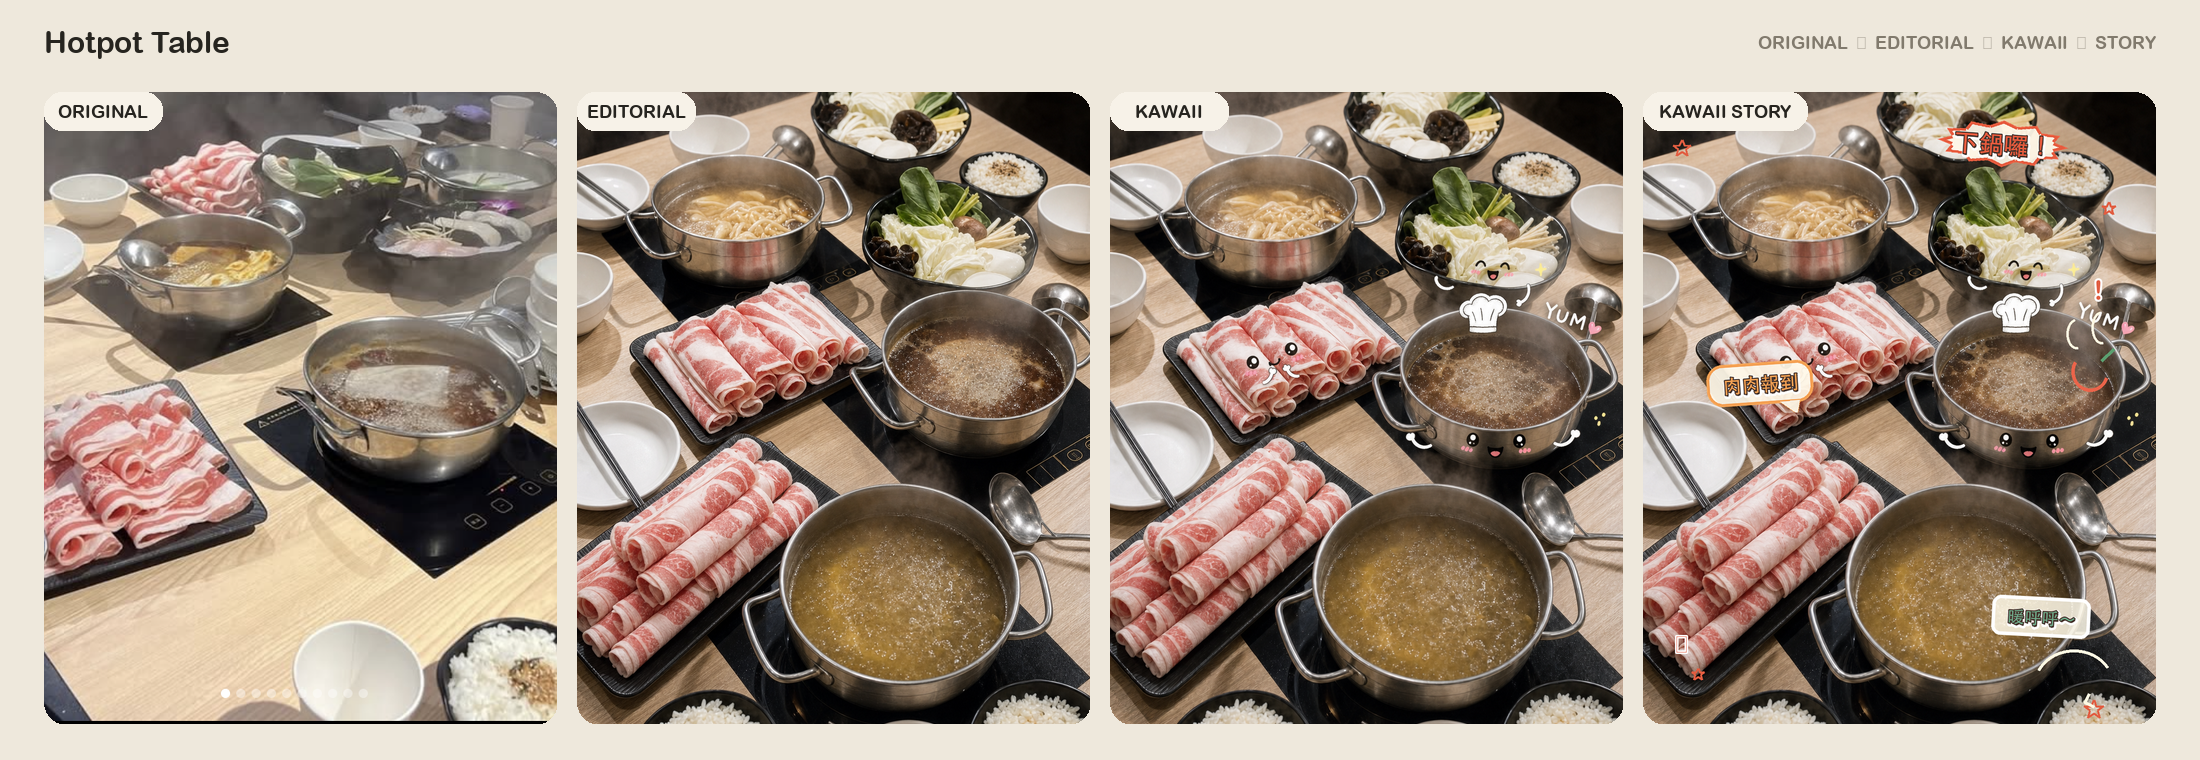
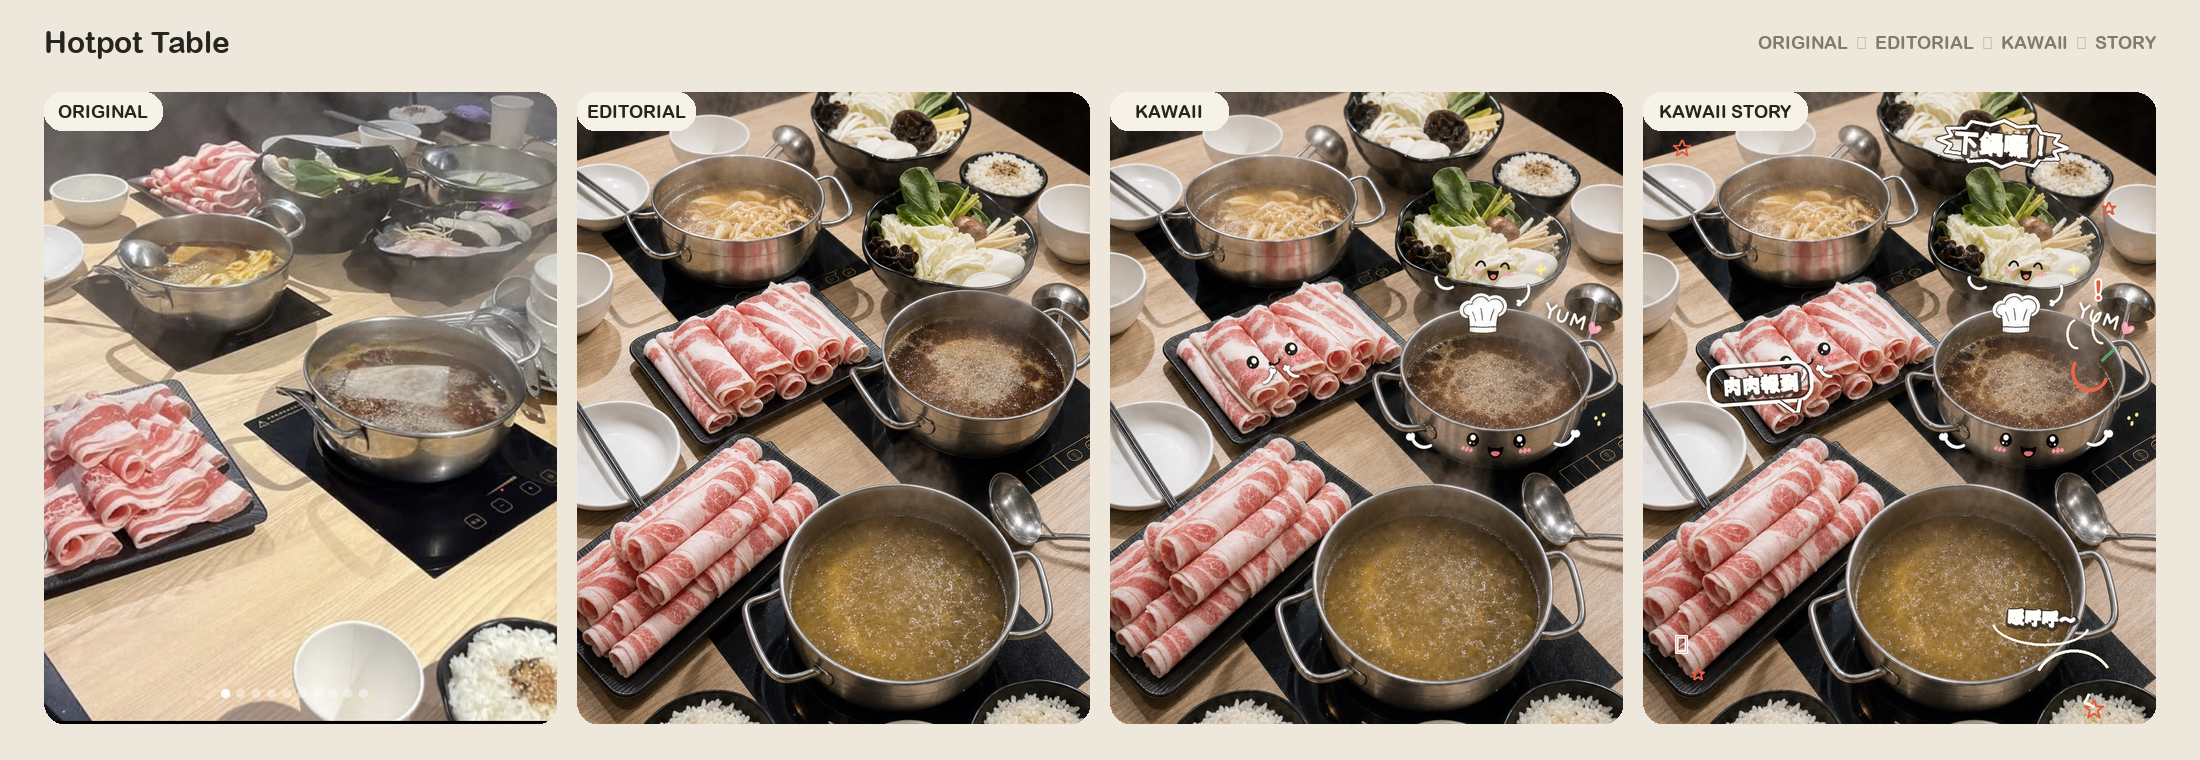
Adopt white hand-drawn story bubbles

Changed region(s): [[0.8655, 0.1513, 0.9582, 0.2421], [0.7727, 0.4539, 0.8345, 0.5447], [0.8964, 0.7868, 0.9582, 0.8474]]

diff --git a/skill/aesthetic-object-recomposer/references/prompt-recipes.md b/skill/aesthetic-object-recomposer/references/prompt-recipes.md
@@ -32,7 +32,7 @@ Build prompts in this order: edit intent, protected inventory, composition, envi
 
 ## Kawaii storytelling third pass
 
-> Use the supplied approved Kawaii Clean image as an immutable base. Preserve every photographic pixel and all existing character faces, limbs, props, and symbols. Add only the planned storytelling layer: [CAPTION 1] near [ANCHOR 1], [CAPTION 2] near [ANCHOR 2], and optionally [CAPTION 3] near [ANCHOR 3]. Use lively hand-drawn lettering with varied scale, subtle speech bubbles, curved arrows, sparkles, music notes, and emotion marks. Prefer blush, sweat drops, question marks, surprise rays, sleepy symbols, hearts, or tiny motion trails. Only when the story benefits, place 1–2 airy outline-style mini illustrations beside the character or in adjacent negative space; use at most two small color fills sampled from the photo, keep new illustration coverage around 3–6% and below 8%, and never paste a large prop across the subject. Create an asymmetric hierarchy with one hero phrase, one smaller reaction, and optional tiny sound marks. Keep each Chinese caption to 4–12 characters or each English caption to 1–5 words. Place text only in calm negative space; never cover food texture, product labels, faces, hands, controls, or hero silhouettes. Keep total text coverage below 16% of the frame. Render all requested text exactly as supplied. No new photographed objects, new characters, changed expressions, moved doodles, oversized hats or utensils, dense paragraphs, fake labels, watermark, social-media UI, composition grid, or tutorial diagram.
+> Use the supplied approved Kawaii Clean image as an immutable base. Preserve every photographic pixel and all existing character faces, limbs, props, and symbols. Add only the planned storytelling layer: [CAPTION 1] near [ANCHOR 1], [CAPTION 2] near [ANCHOR 2], and optionally [CAPTION 3] near [ANCHOR 3]. Render captions in bold white hand-drawn lettering with a thin dark keyline. Enclose selected phrases with transparent irregular white-outline speech bubbles or hand-drawn circles; do not use cream cards, colored caption fills, pill badges, or UI-like boxes. Add white curved arrows, sparkles, music notes, and emotion marks. Prefer blush, sweat drops, question marks, surprise rays, sleepy symbols, hearts, or tiny motion trails. Only when the story benefits, place 1–2 airy mini illustrations beside the character or in adjacent negative space; these may use at most two small color fills sampled from the photo, must keep new illustration coverage around 3–6% and below 8%, and must never cross the subject as a large prop. Keep each Chinese caption to 4–12 characters or each English caption to 1–5 words. Place text only in calm negative space; never cover food texture, product labels, faces, hands, controls, or hero silhouettes. Render all requested text exactly as supplied. No new photographed objects, new characters, changed expressions, moved doodles, oversized props, dense paragraphs, fake labels, watermark, social-media UI, composition grid, or tutorial diagram.
 
 ## Targeted corrections
 

diff --git a/skill/aesthetic-object-recomposer/references/text-captioning.md b/skill/aesthetic-object-recomposer/references/text-captioning.md
@@ -41,11 +41,12 @@ Do not copy text from reference images. Write original captions that fit the sup
 
 - Use lively hand-drawn scrapbook lettering with irregular baselines, playful rotation, and visibly varied character size.
 - Build a clear hierarchy: one bold comic-style hero phrase, one smaller handwritten reaction, and an optional tiny scene note.
-- Use cream or white as the reading base, plus 2–4 source-derived accent colors for key words, punctuation, stars, music notes, and emphasis marks.
-- Add a thick contrasting outline or sticker-like border so every phrase remains readable over photography.
-- Mix filled bubble lettering, loose handwritten notes, and compact speech balloons while keeping the set visually coherent.
+- Make white the dominant lettering and bubble color. Use thick white hand-drawn strokes with only a thin dark shadow or keyline for contrast.
+- Keep speech bubbles transparent: draw an irregular white outline around the text rather than placing text on a cream, colored, or solid rectangular sticker.
+- Use source-derived accent colors mainly for nearby character illustrations and tiny punctuation—not for the main caption fill.
+- Mix white bubble lettering, loose white handwritten notes, and compact white speech balloons while keeping the set visually coherent.
 - Short English exclamations such as `WOW!`, `YUM!`, `GO!`, or `HI!` may be combined with exact Chinese copy when they strengthen the character action.
-- Allow rounded speech bubbles, burst shapes, thought clouds, curved arrows, dotted paths, sparkles, blush marks, and motion lines.
+- Allow rounded speech bubbles, hand-drawn circles, irregular speech frames, thought clouds, curved arrows, dotted paths, sparkles, blush marks, and motion lines. Keep their outlines white.
 - Avoid rigid typesetting, corporate fonts, dense rectangular text boxes, long paragraphs, or perfectly aligned captions.
 
 ## Reference-energy target
@@ -54,6 +55,7 @@ Do not copy text from reference images. Write original captions that fit the sup
 - Captions should feel physically connected to the speaking object through a tail, arrow, pose, or nearby action mark.
 - Favor asymmetry and rhythm: one large phrase, one medium reaction, several tiny marks—not three identical labels.
 - Keep overlays handmade and spontaneous, but make all Chinese glyphs deterministic and exact.
+- Reject cream label cards, colored caption boxes, pill-shaped UI badges, and typography that resembles an app interface.
 
 ## Story-prop illustration
 

diff --git a/skill/aesthetic-object-recomposer/SKILL.md b/skill/aesthetic-object-recomposer/SKILL.md
@@ -29,7 +29,7 @@ Create the finished image whenever an image-editing or image-generation tool is 
 
 - A, B, and C must share the same canvas, crop, camera angle, lens perspective, object positions, scale, overlap, lighting, shadows, background, color grade, and depth of field.
 - B may add only faces, short limbs, tiny props, motion marks, sparkles, and very short decorative lettering.
-- C may add only planned captions, dialogue, arrows, brackets, subtle speech bubbles, lively emotion marks, and 1–2 small story-supporting illustrations placed beside or lightly attached to existing characters.
+- C may add only planned white handwritten captions, transparent white-outline speech bubbles, arrows, lively emotion marks, and 1–2 small story-supporting illustrations placed beside or lightly attached to existing characters.
 - B and C must not move, resize, replace, duplicate, remove, or restyle any photographed object.
 - Use approved A as B's source and approved B as C's source.
 - Name outputs clearly as `editorial`, `kawaii-clean`, and `kawaii-story`.
@@ -46,7 +46,7 @@ Create the finished image whenever an image-editing or image-generation tool is 
 - Use foreground, subject plane, and soft background to create three-layer depth.
 - Remove clutter only when it is not part of the protected inventory.
 - Do not show composition grids, dotted guides, labels, or explanatory text in the final image. The reference diagrams are planning tools only.
-- In Kawaii Clean mode, use sparse hand-drawn overlays. In Kawaii Story mode, let the photograph remain dominant: prefer small emotion symbols, then optional outline-style side illustrations, then text. Keep new illustration coverage around 3–6%; never cover product labels, food texture, or the hero silhouette.
+- In Kawaii Clean mode, use sparse hand-drawn overlays. In Kawaii Story mode, let the photograph remain dominant: use white hand-drawn lettering and transparent white bubble outlines, then small emotion symbols and optional side illustrations. Never use cream label cards or colored UI-like caption boxes. Keep new illustration coverage around 3–6%; never cover product labels, food texture, or the hero silhouette.
 
 ## Fidelity Guardrails
 

diff --git a/README.en.md b/README.en.md
@@ -11,7 +11,7 @@ Turn ordinary photos into polished Instagram-ready editorial images, then create
 - Produces a matched three-image set by default:
   1. **Editorial:** clean lifestyle photography with natural window light and magazine styling.
   2. **Kawaii Clean:** an overlay-only Q-style character treatment based directly on the Editorial result.
-  3. **Kawaii Story:** the clean character version plus lively speech-bubble lettering, dialogue, arrows, and small story-linked illustrated props.
+  3. **Kawaii Story:** the clean character version plus bold white hand lettering, transparent white-outline speech bubbles, emotion marks, and small story-linked illustrations.
 - Locks crop, camera, placement, lighting, shadows, background, and depth of field across all three images.
 - Uses deterministic post-production typesetting when exact Chinese text is required.
 - Guards against fake text, floating objects, duplicate food, excessive orange grading, HDR, watermarks, and social-media UI.

diff --git a/README.md b/README.md
@@ -11,7 +11,7 @@
 - 預設輸出一組相互配對的三張圖片：
   1. **Editorial**：乾淨、自然、具有窗光與雜誌感的網美攝影版。
   2. **Kawaii Clean**：直接在 Editorial 成品上加入 Q 版表情、短手腳與少量塗鴉。
-  3. **Kawaii Story**：沿用純 Q 版，再加入氣泡字、短中文旁白、角色對話、箭頭，以及與情節連動的小道具插畫。
+  3. **Kawaii Story**：沿用純 Q 版，再加入白色手寫字、透明白線氣泡、短中文旁白、情緒符號，以及與情節連動的小插畫。
 - 三個階段皆鎖定裁切、鏡位、物件位置、光線、陰影與景深，避免構圖漂移。
 - 精確中文優先使用後製排字，避免 AI 生成亂碼。
 - 自動避免假文字、浮空物件、重複餐點、過度橘色、HDR 與社群介面。
